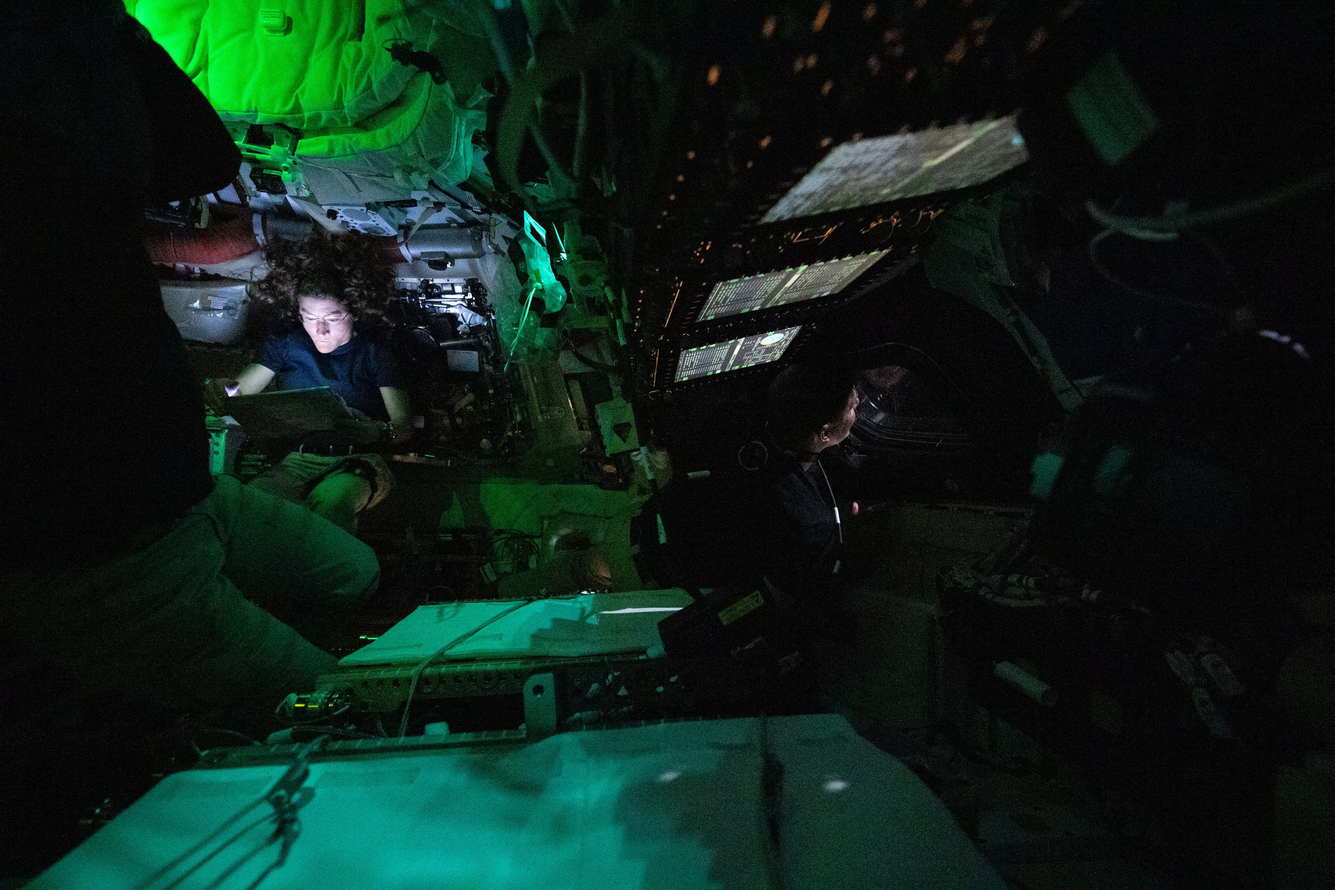
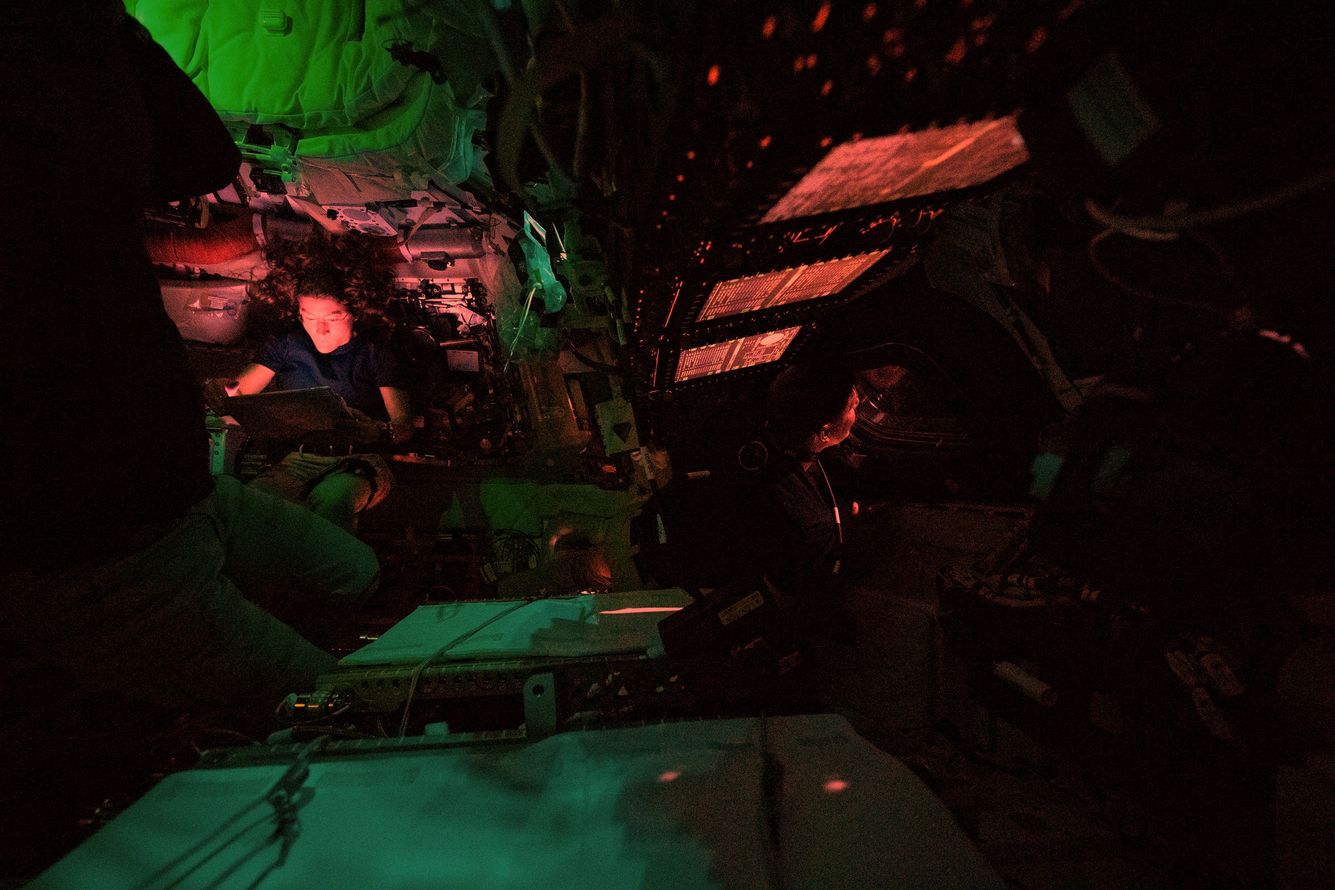
apply infrared red tint filter to all gallery images
Channel-shift filter (R×1.4, G×0.55, B×0.45) inspired by JWST/Spitzer
infrared false-color imaging. Space stays black, lit surfaces get warm
red cast. Filter metadata in docs/image-filter.json, noted in README.

diff --git a/README.md b/README.md
@@ -29,6 +29,8 @@ MIT
 
 ---
 
+> **Gallery filter:** All images below are rendered with an infrared red tint (channel-shift: R×1.4, G×0.55, B×0.45) inspired by JWST/Spitzer false-color infrared imaging. This is an artistic filter, not scientific data. See [`docs/image-filter.json`](docs/image-filter.json) for full metadata.
+
 <details>
 <summary><b>① Earthrise — Apollo 8</b></summary>
 <br/>
@@ -37,7 +39,7 @@ MIT
   <img src="docs/earthrise_AS08-14-2383.jpg" alt="Earthrise — Apollo 8, December 24, 1968" width="100%"/>
 </p>
 
-<sub>Hasselblad 500 EL · 250mm f/5.6 Sonnar · Kodak Ektachrome SO-368 · 70mm film · 4600×4400 (JSC scan) · AS08-14-2383 · William Anders · 1968-12-24 ~16:40 UTC</sub>
+<sub>Hasselblad 500 EL · 250mm f/5.6 Sonnar · Kodak Ektachrome SO-368 · 70mm film · 4600×4400 (JSC scan) · AS08-14-2383 · William Anders · 1968-12-24 ~16:40 UTC · <b>infrared-red-tint filter</b></sub>
 
 </details>
 
@@ -49,7 +51,7 @@ MIT
   <img src="docs/art002e009006-to-the-moon.jpg" alt="The Moon from Orion — Artemis II Flight Day 4, April 4, 2026" width="100%"/>
 </p>
 
-<sub>Nikon D5 · 400mm f/4.5-5.6 · 1/640s f/18 ISO 500 · 5568×3712 · <a href="https://www.nasa.gov/image-detail/amf-art002e009006/">art002e009006</a> · 2026-04-04 02:03:18 UTC</sub>
+<sub>Nikon D5 · 400mm f/4.5-5.6 · 1/640s f/18 ISO 500 · 5568×3712 · <a href="https://www.nasa.gov/image-detail/amf-art002e009006/">art002e009006</a> · 2026-04-04 02:03:18 UTC · <b>infrared-red-tint filter</b></sub>
 
 </details>
 
@@ -61,7 +63,7 @@ MIT
   <img src="docs/art002e000192-hello-world.jpg" alt="Earth from Orion — Artemis II, April 2, 2026" width="100%"/>
 </p>
 
-<sub>Nikon D5 · 22mm f/4.0 · ¼s ISO 51200 · 5568×3712 · <a href="https://www.nasa.gov/image-article/hello-world/">art002e000192</a> · 2026-04-03 00:27:39 UTC−05</sub>
+<sub>Nikon D5 · 22mm f/4.0 · ¼s ISO 51200 · 5568×3712 · <a href="https://www.nasa.gov/image-article/hello-world/">art002e000192</a> · 2026-04-03 00:27:39 UTC−05 · <b>infrared-red-tint filter</b></sub>
 
 </details>
 
@@ -73,7 +75,7 @@ MIT
   <img src="docs/lunar-farside-AS16-M-3021.png" alt="Lunar far side — Apollo 16 Metric Camera, April 1972" width="100%"/>
 </p>
 
-<sub>Fairchild Metric Camera · 76.2mm · Type 3400 B&W film · 4048×4048 (ASU scan) · AS16-M-3021 · Apollo 16 trans-Earth coast · 1972-04</sub>
+<sub>Fairchild Metric Camera · 76.2mm · Type 3400 B&W film · 4048×4048 (ASU scan) · AS16-M-3021 · Apollo 16 trans-Earth coast · 1972-04 · <b>infrared-red-tint filter</b></sub>
 
 </details>
 
@@ -85,6 +87,6 @@ MIT
   <img src="docs/lunar-south-pole-PIA14024.jpg" alt="Lunar south pole — LRO LROC mosaic" width="100%"/>
 </p>
 
-<sub>LROC WAC mosaic · 100 m/pixel · 1242×1242 · PIA14024 · Lunar Reconnaissance Orbiter · Shackleton crater visible at center · 2009–2011</sub>
+<sub>LROC WAC mosaic · 100 m/pixel · 1242×1242 · PIA14024 · Lunar Reconnaissance Orbiter · Shackleton crater visible at center · 2009–2011 · <b>infrared-red-tint filter</b></sub>
 
 </details>
